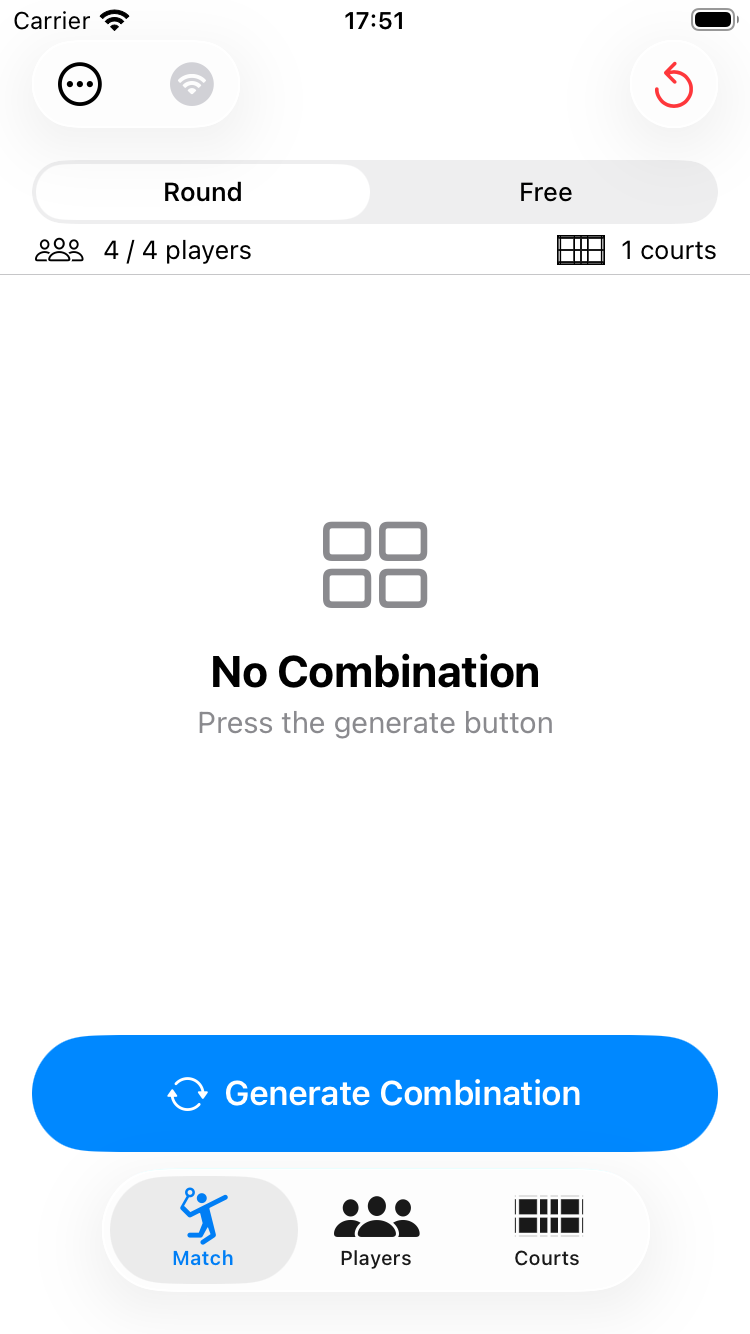
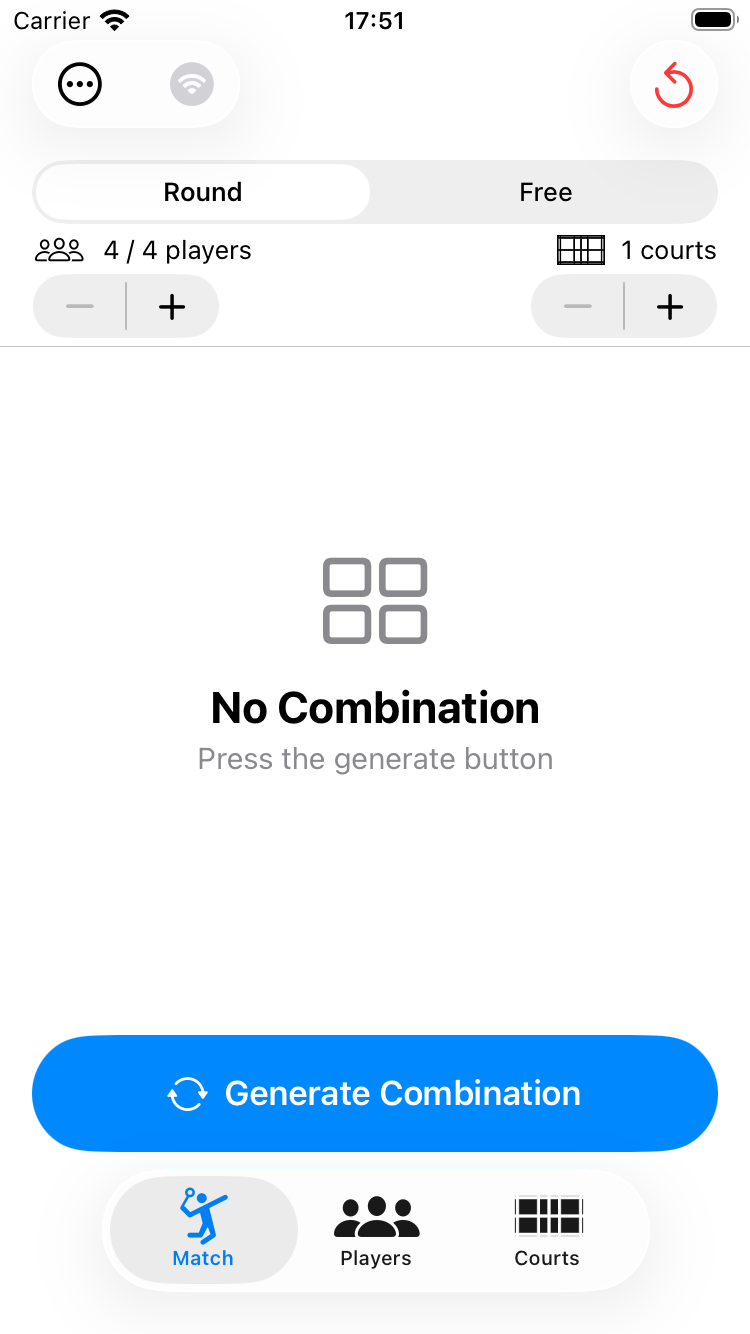
プレイヤー編集画面の前後移動ボタンとスコア画面の写真表示をヘルプに反映

Changed region(s): [[0.2453, 0.3688, 0.736, 0.584], [0.8893, 0.2151, 0.92, 0.2459], [0.2147, 0.2151, 0.2453, 0.2459]]

diff --git a/game-tab.html b/game-tab.html
@@ -89,6 +89,7 @@
 <p>Match タブの試合行をタップすると、スコア入力画面が開きます。画面は上から順に、<code>Game Point</code>（勝利に必要な得点）の設定と <code>Finished</code>（終了）トグル、そのコートで何ゲーム目かを切り替える <code>G1 / G2 / G3</code> ピッカーとここまでの勝ちゲーム数（<code>A: 0 - 0 :B</code>）、プレイヤー表示、得点ボタンという構成です。勝ちゲーム数とゲームピッカーのスコアは、常に <strong>PairA:PairB</strong> の順で固定表示され、後述のエンドチェンジを行っても入れ替わりません。</p>
 <p>プレイヤー表示には、それぞれ <strong>PairA</strong> / <strong>PairB</strong>（内部の pairA・pairB に対応）のラベルが付きます。こちらはエンドチェンジで実際の左右位置が入れ替わると、表示も一緒に切り替わります。</p>
 <div class="ss"><img src="images/score-main.png" alt="スコア入力画面"></div>
+<div class="tip">💡 プレイヤー名ボタンの左端には、Players タブの編集画面で設定した写真が表示されます（未設定の場合は人型のプレースホルダー）。写真の設定方法は「プレイヤータブ」の説明をご覧ください。</div>
 
 <h3 id="input-score">得点を入力する</h3>
 <p>画面下部の青（PairA）・赤（PairB）の大きなボタンに、それぞれの現在の得点が数字で表示されています。このボタンをタップすると、そのペアに1点が加算されます。ボタンは画面左右の位置に固定されており、後述のエンドチェンジでペアが入れ替わると、表示される数字（担当するペア）もそれに合わせて切り替わります。</p>

diff --git a/home.html b/home.html
@@ -69,6 +69,8 @@
   <li>試合タブのプレイヤー数・コート数表示の下に <code>−</code> / <code>+</code> ボタンを復活（SwiftUI移行時に一時的になくなっていた機能です）。Players タブ・Courts タブを開かなくてもその場で人数・コート数を増減できます</li>
   <li>プレイヤータブでスワイプ削除したプレイヤーを、保存済みのメンバーデータベースからも完全に削除するように変更（編集画面のゴミ箱アイコンと同じ挙動になりました）</li>
   <li>「1」「2」のような数字だけの名前（未命名のプレイヤー）は、メンバーデータベースに保存されないように変更。既にDBに保存されてしまっている数字だけの名前のエントリも、読み込み時に自動的に削除されるように変更</li>
+  <li>プレイヤー編集画面に <code>▲</code> / <code>▼</code> ボタンを追加。一覧に戻らずそのまま前後のプレイヤーの編集画面に切り替えられるように変更</li>
+  <li>スコア入力画面のプレイヤー名ボタンを縦に約1.5倍拡大し、左端にプレイヤーの写真を表示するように変更</li>
 </ul>
 
 <h2>フィードバック</h2>

diff --git a/index.html b/index.html
@@ -69,6 +69,8 @@
   <li>試合タブのプレイヤー数・コート数表示の下に <code>−</code> / <code>+</code> ボタンを復活（SwiftUI移行時に一時的になくなっていた機能です）。Players タブ・Courts タブを開かなくてもその場で人数・コート数を増減できます</li>
   <li>プレイヤータブでスワイプ削除したプレイヤーを、保存済みのメンバーデータベースからも完全に削除するように変更（編集画面のゴミ箱アイコンと同じ挙動になりました）</li>
   <li>「1」「2」のような数字だけの名前（未命名のプレイヤー）は、メンバーデータベースに保存されないように変更。既にDBに保存されてしまっている数字だけの名前のエントリも、読み込み時に自動的に削除されるように変更</li>
+  <li>プレイヤー編集画面に <code>▲</code> / <code>▼</code> ボタンを追加。一覧に戻らずそのまま前後のプレイヤーの編集画面に切り替えられるように変更</li>
+  <li>スコア入力画面のプレイヤー名ボタンを縦に約1.5倍拡大し、左端にプレイヤーの写真を表示するように変更</li>
 </ul>
 
 <h2>フィードバック</h2>

diff --git a/update-history.html b/update-history.html
@@ -27,6 +27,8 @@
   <li>試合タブのプレイヤー数・コート数表示の下に <code>−</code> / <code>+</code> ボタンを復活（SwiftUI移行時に一時的になくなっていた機能です）。Players タブ・Courts タブを開かなくてもその場で人数・コート数を増減できます</li>
   <li>プレイヤータブでスワイプ削除したプレイヤーを、保存済みのメンバーデータベースからも完全に削除するように変更（編集画面のゴミ箱アイコンと同じ挙動になりました）</li>
   <li>「1」「2」のような数字だけの名前（未命名のプレイヤー）は、メンバーデータベースに保存されないように変更。既にDBに保存されてしまっている数字だけの名前のエントリも、読み込み時に自動的に削除されるように変更</li>
+  <li>プレイヤー編集画面に <code>▲</code> / <code>▼</code> ボタンを追加。一覧に戻らずそのまま前後のプレイヤーの編集画面に切り替えられるように変更</li>
+  <li>スコア入力画面のプレイヤー名ボタンを縦に約1.5倍拡大し、左端にプレイヤーの写真を表示するように変更</li>
 </ul>
 
 <h2>v1.21.0</h2>

diff --git a/players-tab.html b/players-tab.html
@@ -65,6 +65,7 @@
 <h2 id="rename">4. 名前を変更する</h2>
 <p>Players タブでプレイヤーの行をタップすると編集画面が開きます。<strong>Player Info</strong>（プレイヤー情報）セクションの<strong>Name</strong>（名前）フィールドを編集してください。</p>
 <div class="ss"><img src="images/player-edit-main.png" alt="プレイヤー編集画面"></div>
+<div class="tip">💡 編集画面右上の <code>▲</code> / <code>▼</code> ボタンで、一覧に戻らずそのまま前後のプレイヤーの編集画面に切り替えられます。複数人まとめて名前を確認・変更したいときに便利です。</div>
 
 <h2 id="level">5. レベルを設定する</h2>
 <p>各プレイヤーには <strong>1・2・3</strong> のレベルを設定できます。Players タブのリスト左端にあるレベルバッジをタップするたびに 1→2→3→1 と切り替わります。編集画面の <strong>Level</strong>（レベル）からも変更できます。</p>
